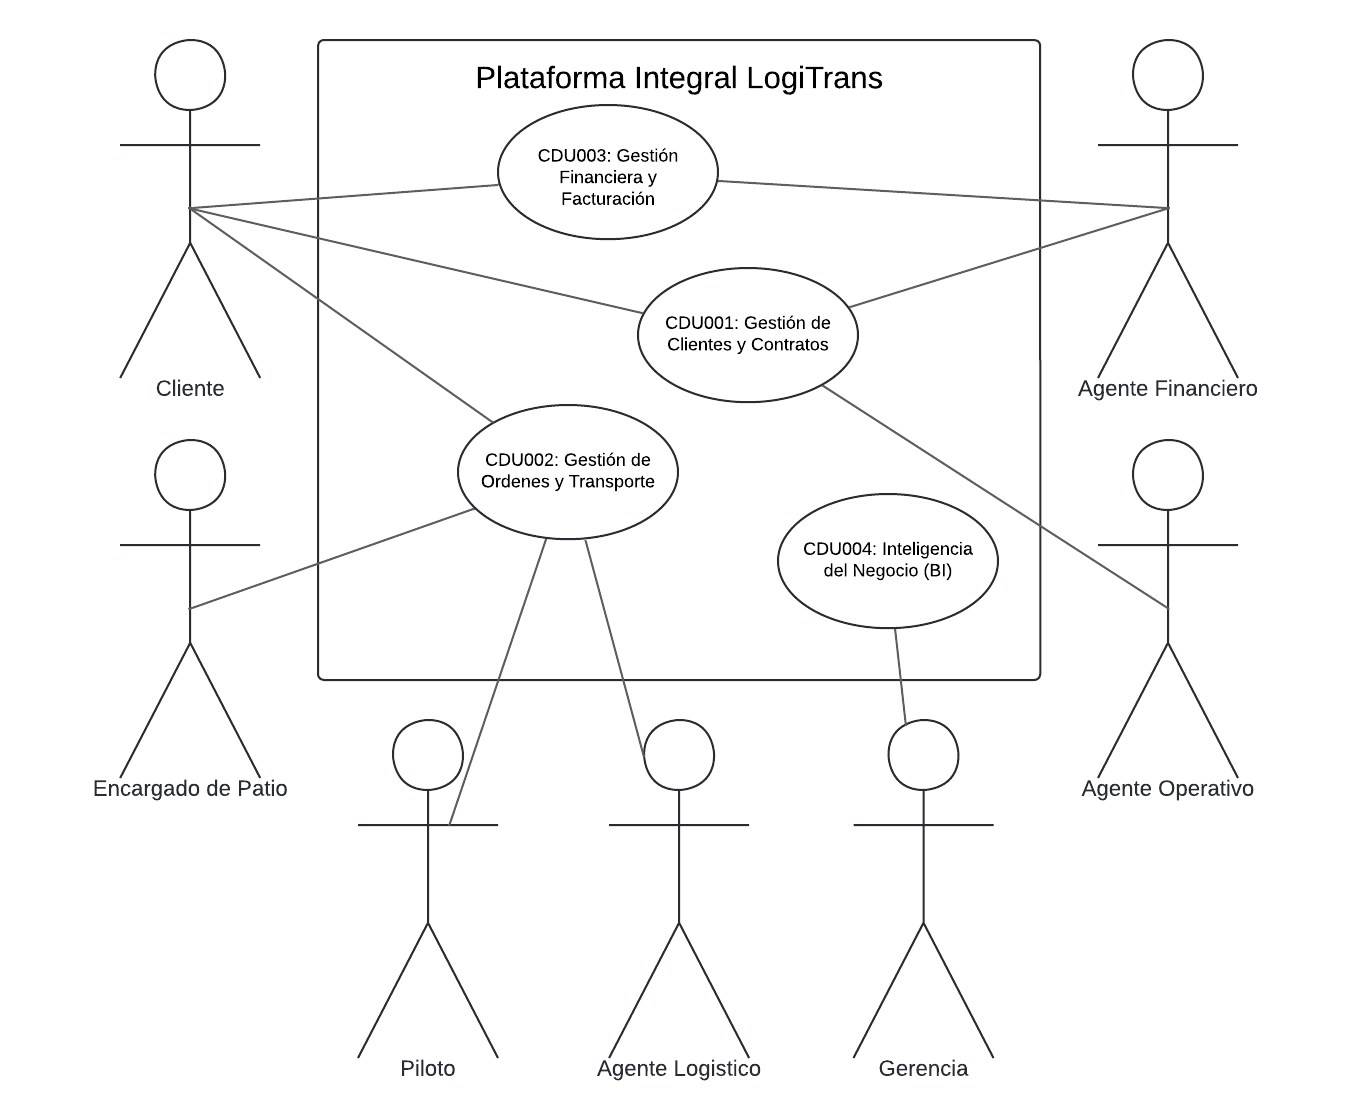
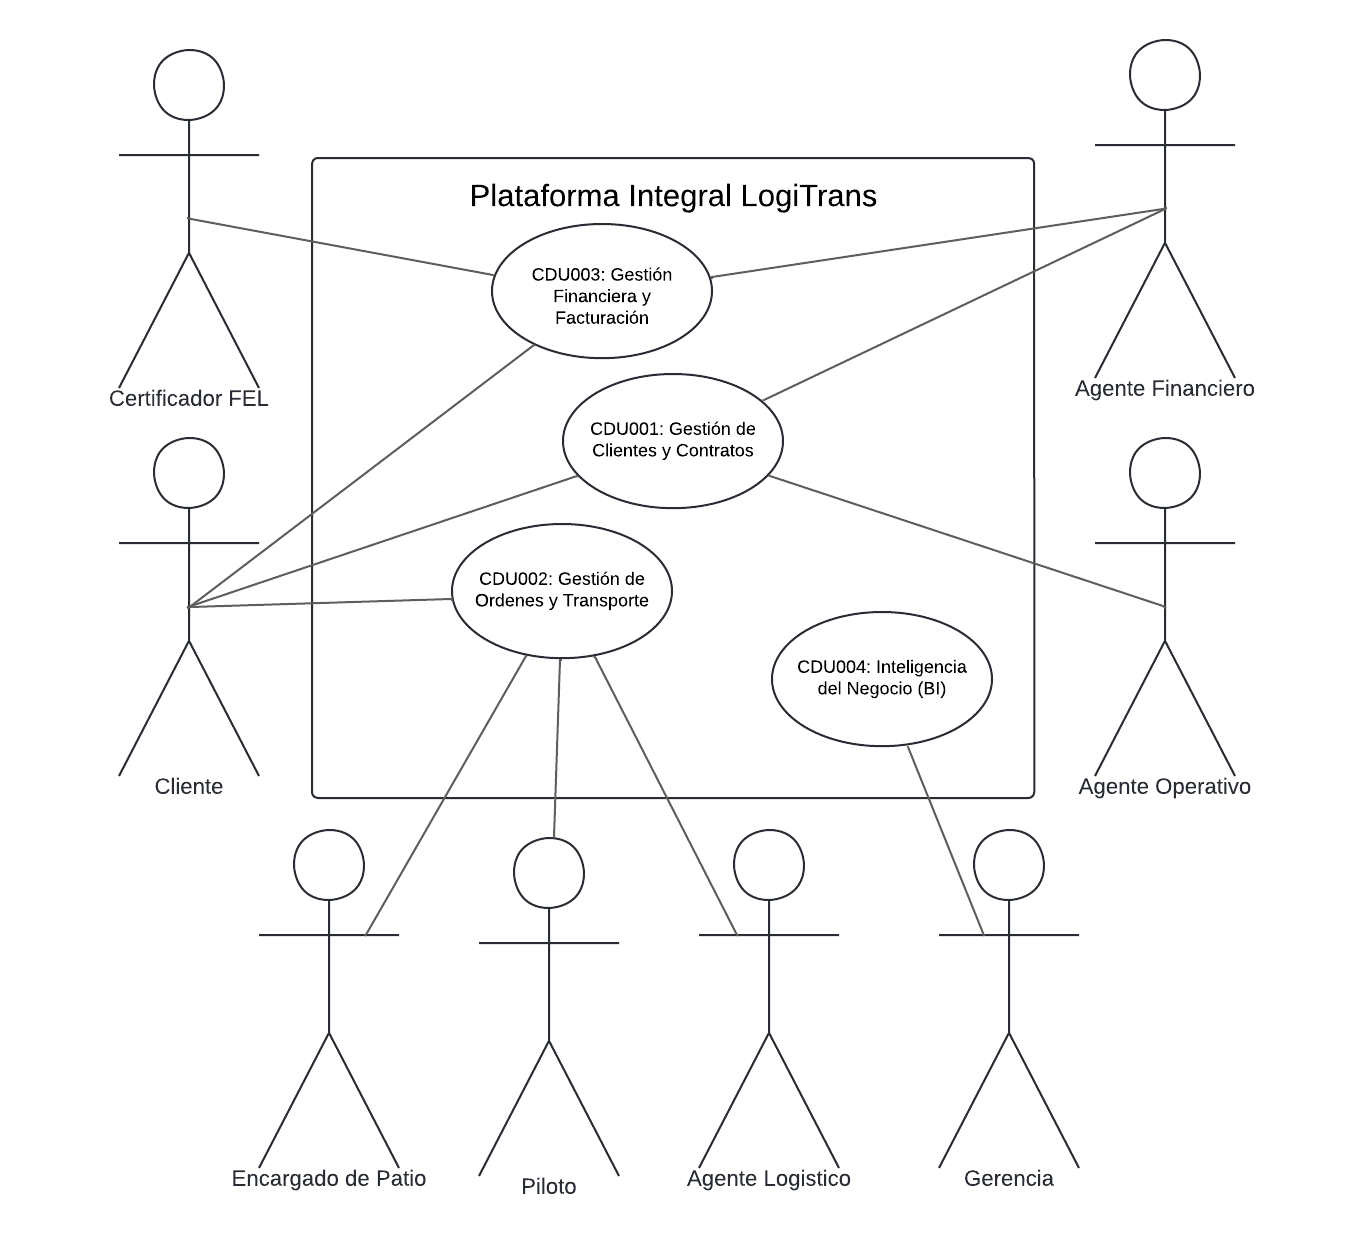
202302220: Update Documento de Decisión de Arquitectura (DDA) and CDU diagrams to include Certificador FEL role and enhance clarity in financial processes

diff --git a/docs/dda.md b/docs/dda.md
@@ -50,6 +50,7 @@
 | Encargado de Patio | Personal en sitio responsable del despacho físico, validación de seguridad, pesaje y estiba de la carga. |
 | Piloto | Conductor de la unidad de transporte encargado de la ejecución del viaje, reporte de bitácora y confirmación de entrega. |
 | Agente Financiero | Responsable de la configuración de precios base, facturación electrónica y gestión de cobros. |
+| Certificador FEL | Entidad externa autorizada por la SAT para validar, firmar digitalmente y certificar los Documentos Tributarios Electrónicos (DTE) en el proceso de Facturación Electrónica en Línea. |
 | Gerencia | Usuario estratégico que visualiza reportes de rendimiento y KPIs para la toma de decisiones. |
 
 ### Diagrama de Casos de Uso de Negocio — Alto Nivel
@@ -125,7 +126,7 @@
 | **RF-08** | CDU002 | Registro de Despacho en Patio | Validación presencial de identidad del piloto, pesaje real vs. declarado y condición de estiba antes de autorizar la salida. | Encargado de Patio | Alta |
 | **RF-09** | CDU002 | Registro de Bitácora de Viaje | Reporte de novedades, cambios de estado y geolocalización por parte del piloto durante el tránsito. | Piloto | Media |
 | **RF-10** | CDU002 | Confirmación de Entrega y Evidencia | Registro fotográfico y firma de recepción al entregar la mercancía, dejando la orden lista para facturación. | Piloto | Alta |
-| **RF-11** | CDU003 | Generación y Emisión de Factura FEL | Emisión automática de la factura con validación fiscal, certificación DTE ante la SAT y generación de representación gráfica (PDF). | Agente Financiero | Alta |
+| **RF-11** | CDU003 | Generación y Emisión de Factura FEL | Emisión automática de la factura con validación fiscal, certificación DTE ante la SAT a través del Certificador FEL y generación de representación gráfica (PDF). | Agente Financiero, Certificador FEL | Alta |
 | **RF-12** | CDU003 | Gestión de Estado de Cuenta | Visualización de saldo, facturas pendientes y fechas de vencimiento para clientes y agentes financieros. | Agente Financiero, Cliente | Alta |
 | **RF-13** | CDU003 | Registro y Aplicación de Pagos | Reporte de depósito/transferencia por parte del cliente y confirmación/contabilización por parte del agente financiero con número de autorización bancaria. | Agente Financiero, Cliente | Alta |
 | **RF-14** | CDU004 | Visualización de Dashboard Gerencial | Corte diario consolidado de las tres sedes con cálculo de KPIs, márgenes de rentabilidad y tiempos de entrega. | Gerencia | Media |
@@ -182,15 +183,15 @@
 |---|---|
 | **Nombre** | Gestión Financiera y Facturación |
 | **Código** | CDU003 |
-| **Actores** | **Primarios:** Agente Financiero, Cliente. |
-| **Descripción** | Módulo que centraliza las operaciones fiscales y de tesorería. Permite la emisión automática de facturas (FEL) asegurando el cumplimiento tributario, y habilita un portal de gestión de cuentas donde clientes y agentes interactúan para el reporte y conciliación de pagos. |
+| **Actores** | **Primarios:** Agente Financiero, Cliente. **Secundarios:** Certificador FEL. |
+| **Descripción** | Módulo que centraliza las operaciones fiscales y de tesorería. Permite la emisión automática de facturas (FEL) asegurando el cumplimiento tributario mediante la integración con el Certificador FEL autorizado por la SAT, y habilita un portal de gestión de cuentas donde clientes y agentes interactúan para el reporte y conciliación de pagos. |
 | **Precondiciones** | 1. Existir una Orden de Servicio con estado "Entregado". 2. El Cliente debe tener un NIT válido registrado en el sistema. |
 | **Post Condiciones** | **Éxito:** Factura emitida y entregada; saldos de cuenta actualizados tras el registro del pago. **Fallo:** Emisión detenida por error fiscal o pago no procesado por falta de fondos. |
-| **Flujo Principal A (Emisión de Factura)** | 1. El Agente Financiero inicia el proceso en Generar y Emitir Factura FEL (CDU003.1). 2. El sistema ejecuta Validar Reglas Fiscales (CDU003.2) verificando montos y NIT. 3. El sistema procede a Certificar DTE ante SAT (CDU003.3) obteniendo la firma electrónica. 4. El sistema finaliza con Emitir Factura Física (CDU003.4), generando y enviando la representación gráfica (PDF). |
+| **Flujo Principal A (Emisión de Factura)** | 1. El Agente Financiero inicia el proceso en Generar y Emitir Factura FEL (CDU003.1). 2. El sistema ejecuta Validar Reglas Fiscales (CDU003.2) verificando montos y NIT. 3. El sistema envía el DTE al Certificador FEL, quien ejecuta Certificar DTE ante SAT (CDU003.3), validando, firmando digitalmente y devolviendo la certificación electrónica. 4. El sistema finaliza con Emitir Factura Física (CDU003.4), generando y enviando la representación gráfica (PDF). |
 | **Flujo Principal B (Gestión de Cuentas)** | 1. El Cliente o Agente Financiero acceden a Gestionar Estado de Cuenta (CDU003.5). 2. El sistema muestra el saldo actual y facturas pendientes. 3. Se pueden ejecutar las extensiones de pago (ver Flujos Alternos). |
 | **Flujos Alternos** | **FA1: Reporte de Pago del Cliente (Extensión CDU003.7)** — Desde el Estado de Cuenta, el Cliente ejecuta Registrar Información de Pago. Sube la boleta de depósito o transferencia. El sistema marca la factura como "Pago en Revisión". **FA2: Aplicación del Pago (Extensión CDU003.6)** — El Agente Financiero revisa la información y ejecuta Generar Pagos de Facturas. El sistema valida el monto y rebaja el saldo de la deuda del cliente. |
 | **Reglas de Negocio** | • **Validación Fiscal:** El sistema no permitirá certificar (CDU003.3) si el NIT no cumple con el algoritmo de la SAT.<br>• **Bloqueo por Mora:** Si el Estado de Cuenta (CDU003.5) muestra facturas con más de 45 días de vencimiento, se bloquean nuevos servicios automáticamente.<br>• **Traza Bancaria:** Para registrar un pago (CDU003.7/3.6) es obligatorio ingresar el Banco de Origen y Número de Autorización. |
-| **Reglas de Calidad** | • **Integridad:** La Factura Física (PDF) debe ser idéntica a los datos certificados en el XML de la SAT.<br>• **Seguridad:** El Cliente puede registrar información de pago, pero solo el Agente Financiero tiene permisos para confirmar y "Generar el Pago" real en el libro contable. |
+| **Reglas de Calidad** | • **Integridad:** La Factura Física (PDF) debe ser idéntica a los datos certificados en el XML de la SAT.<br>• **Seguridad:** El Cliente puede registrar información de pago, pero solo el Agente Financiero tiene permisos para confirmar y "Generar el Pago" real en el libro contable.<br>• **Interoperabilidad:** La comunicación con el Certificador FEL (CDU003.3) debe realizarse mediante APIs estándar, garantizando la certificación en tiempo real del DTE y el manejo adecuado de errores o indisponibilidad del servicio externo. |
 
 ---
 
@@ -427,12 +428,12 @@ Esta matriz relaciona los casos de uso (CDU) con los escenarios de atributos de 
 
 Esta matriz muestra qué actores participan en cada caso de uso. La marca **●** indica actor primario (participa directamente en el flujo principal) y **○** indica actor secundario (participa de forma indirecta o en extensiones).
 
-| CDU | Módulo | Cliente | Agente Operativo | Agente Logístico | Encargado de Patio | Piloto | Agente Financiero | Gerencia |
-|---|---|:---:|:---:|:---:|:---:|:---:|:---:|:---:|
-| CDU001 | Gestión Comercial y Contratos | ○ | ● | | | | ● | |
-| CDU002 | Gestión de Órdenes y Transporte | ● | | ● | ● | ● | | |
-| CDU003 | Gestión Financiera y Facturación | ● | | | | | ● | |
-| CDU004 | Inteligencia de Negocio y Reportes | | | | | | | ● |
+| CDU | Módulo | Cliente | Agente Operativo | Agente Logístico | Encargado de Patio | Piloto | Agente Financiero | Certificador FEL | Gerencia |
+|---|---|:---:|:---:|:---:|:---:|:---:|:---:|:---:|:---:|
+| CDU001 | Gestión Comercial y Contratos | ○ | ● | | | | ● | | |
+| CDU002 | Gestión de Órdenes y Transporte | ● | | ● | ● | ● | | | |
+| CDU003 | Gestión Financiera y Facturación | ● | | | | | ● | ○ | |
+| CDU004 | Inteligencia de Negocio y Reportes | | | | | | | | ● |
 
 > **●** Actor Primario — **○** Actor Secundario
 